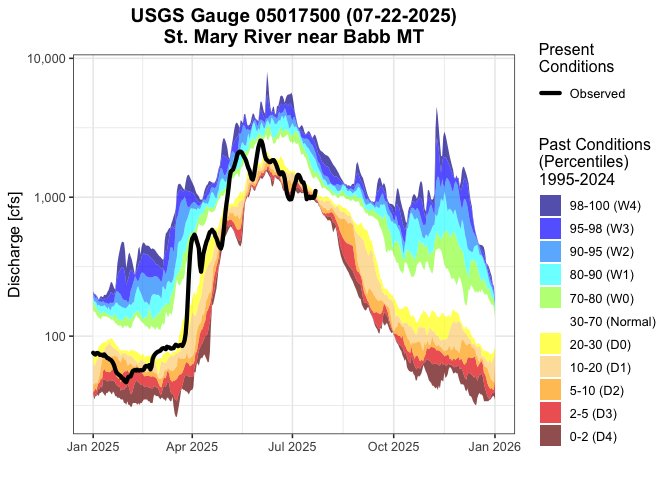
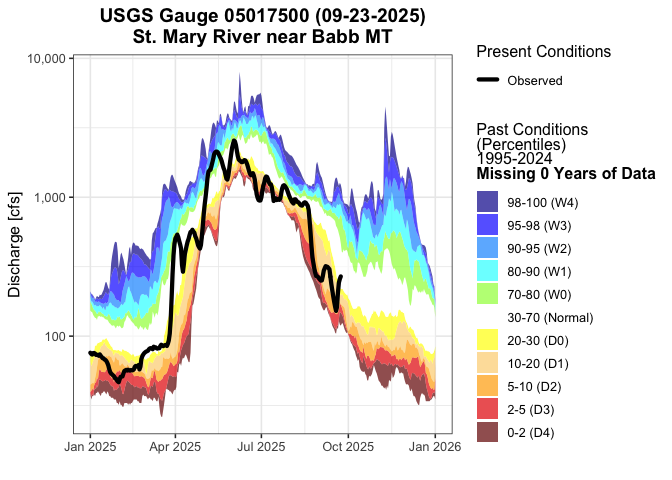
Update plot legend when not enough data.

diff --git a/README.md b/README.md
@@ -78,20 +78,20 @@ print(discharge_shp)
 #> # A tibble: 16 × 6
 #>    STAID    STANAME                          geometry time  value fillColor
 #>  * <chr>    <chr>                         <POINT [°]> <chr> <dbl> <chr>    
-#>  1 05014500 Swiftcurrent Creek … (-113.6567 48.79883) today 73.3  #82FCF9  
-#>  2 05014500 Swiftcurrent Creek … (-113.6567 48.79883) 7     50    #FFFFFF  
-#>  3 05014500 Swiftcurrent Creek … (-113.6567 48.79883) 14    26.7  #FFFF00  
-#>  4 05014500 Swiftcurrent Creek … (-113.6567 48.79883) 28    13.3  #FCD27E  
-#>  5 05017500 St. Mary River near… (-113.4207 48.83304) today 33.3  #FFFFFF  
-#>  6 05017500 St. Mary River near… (-113.4207 48.83304) 7      6.67 #FFAA00  
-#>  7 05017500 St. Mary River near… (-113.4207 48.83304) 14     6.67 #FFAA00  
-#>  8 05017500 St. Mary River near… (-113.4207 48.83304) 28     3.33 #E60000  
+#>  1 05014500 Swiftcurrent Creek … (-113.6567 48.79883) today  6.67 #FFAA00  
+#>  2 05014500 Swiftcurrent Creek … (-113.6567 48.79883) 7     13.3  #FCD27E  
+#>  3 05014500 Swiftcurrent Creek … (-113.6567 48.79883) 14    16.7  #FCD27E  
+#>  4 05014500 Swiftcurrent Creek … (-113.6567 48.79883) 28     3.33 #E60000  
+#>  5 05017500 St. Mary River near… (-113.4207 48.83304) today 43.3  #FFFFFF  
+#>  6 05017500 St. Mary River near… (-113.4207 48.83304) 7     13.3  #FCD27E  
+#>  7 05017500 St. Mary River near… (-113.4207 48.83304) 14    16.7  #FCD27E  
+#>  8 05017500 St. Mary River near… (-113.4207 48.83304) 28    16.7  #FCD27E  
 #>  9 05018500 St. Mary Canal at S… (-113.3753 48.94697) today 96.6  #4030E3  
 #> 10 05018500 St. Mary Canal at S… (-113.3753 48.94697) 7     96.6  #4030E3  
 #> 11 05018500 St. Mary Canal at S… (-113.3753 48.94697) 14    89.7  #32E1FA  
 #> 12 05018500 St. Mary Canal at S… (-113.3753 48.94697) 28    75.9  #82FCF9  
-#> 13 05030500 OTTER TAIL RIVER NE… (-96.01708 46.36954) today 23.3  #FFFF00  
-#> 14 05030500 OTTER TAIL RIVER NE… (-96.01708 46.36954) 7     23.3  #FFFF00  
-#> 15 05030500 OTTER TAIL RIVER NE… (-96.01708 46.36954) 14    23.3  #FFFF00  
-#> 16 05030500 OTTER TAIL RIVER NE… (-96.01708 46.36954) 28    20    #FFFF00
+#> 13 05030500 OTTER TAIL RIVER NE… (-96.01708 46.36954) today 36.7  #FFFFFF  
+#> 14 05030500 OTTER TAIL RIVER NE… (-96.01708 46.36954) 7     33.3  #FFFFFF  
+#> 15 05030500 OTTER TAIL RIVER NE… (-96.01708 46.36954) 14    30    #FFFFFF  
+#> 16 05030500 OTTER TAIL RIVER NE… (-96.01708 46.36954) 28    33.3  #FFFFFF
 ```
